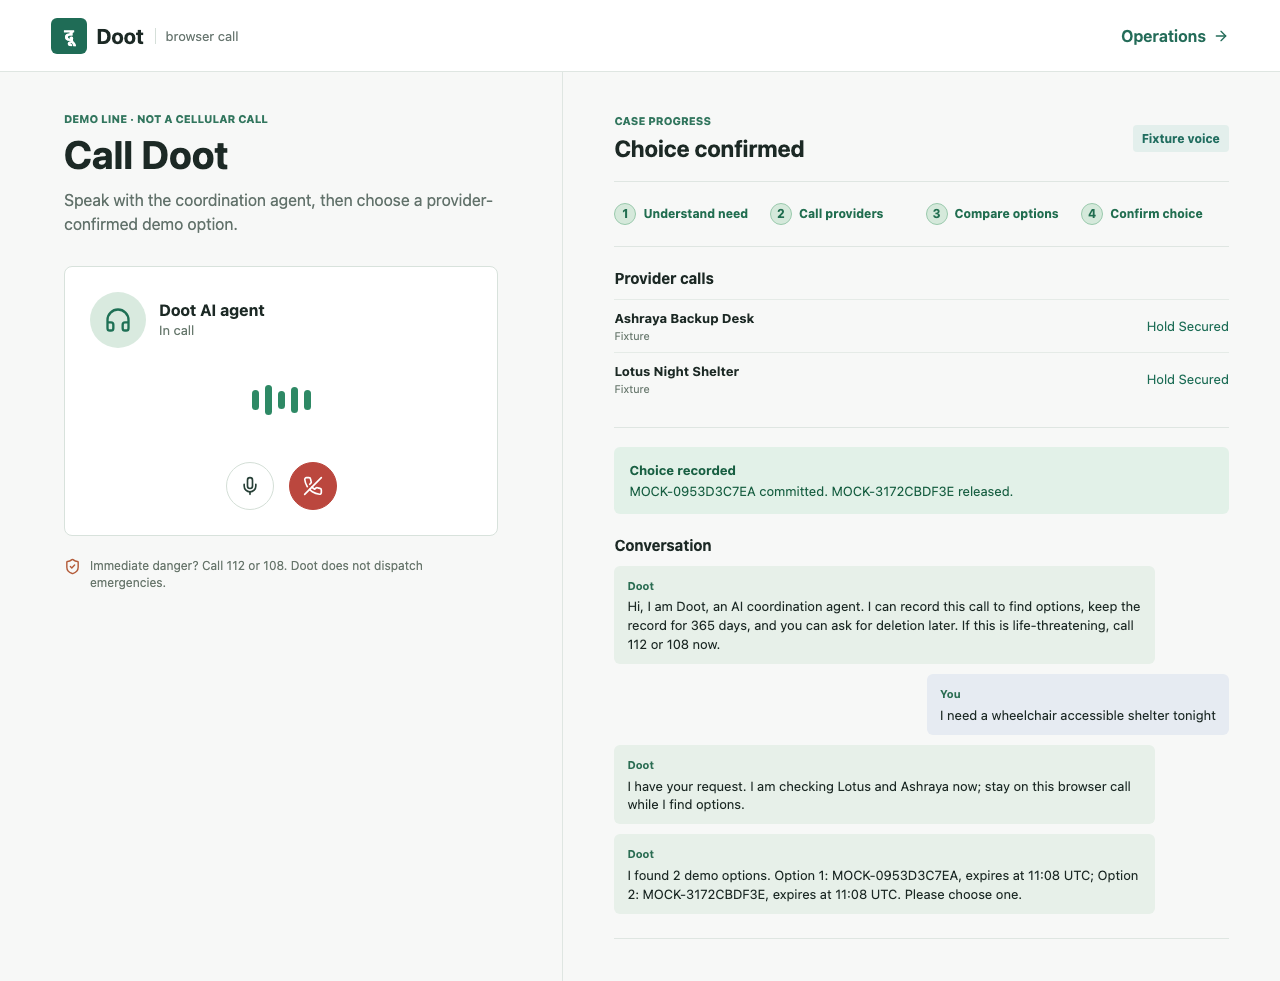
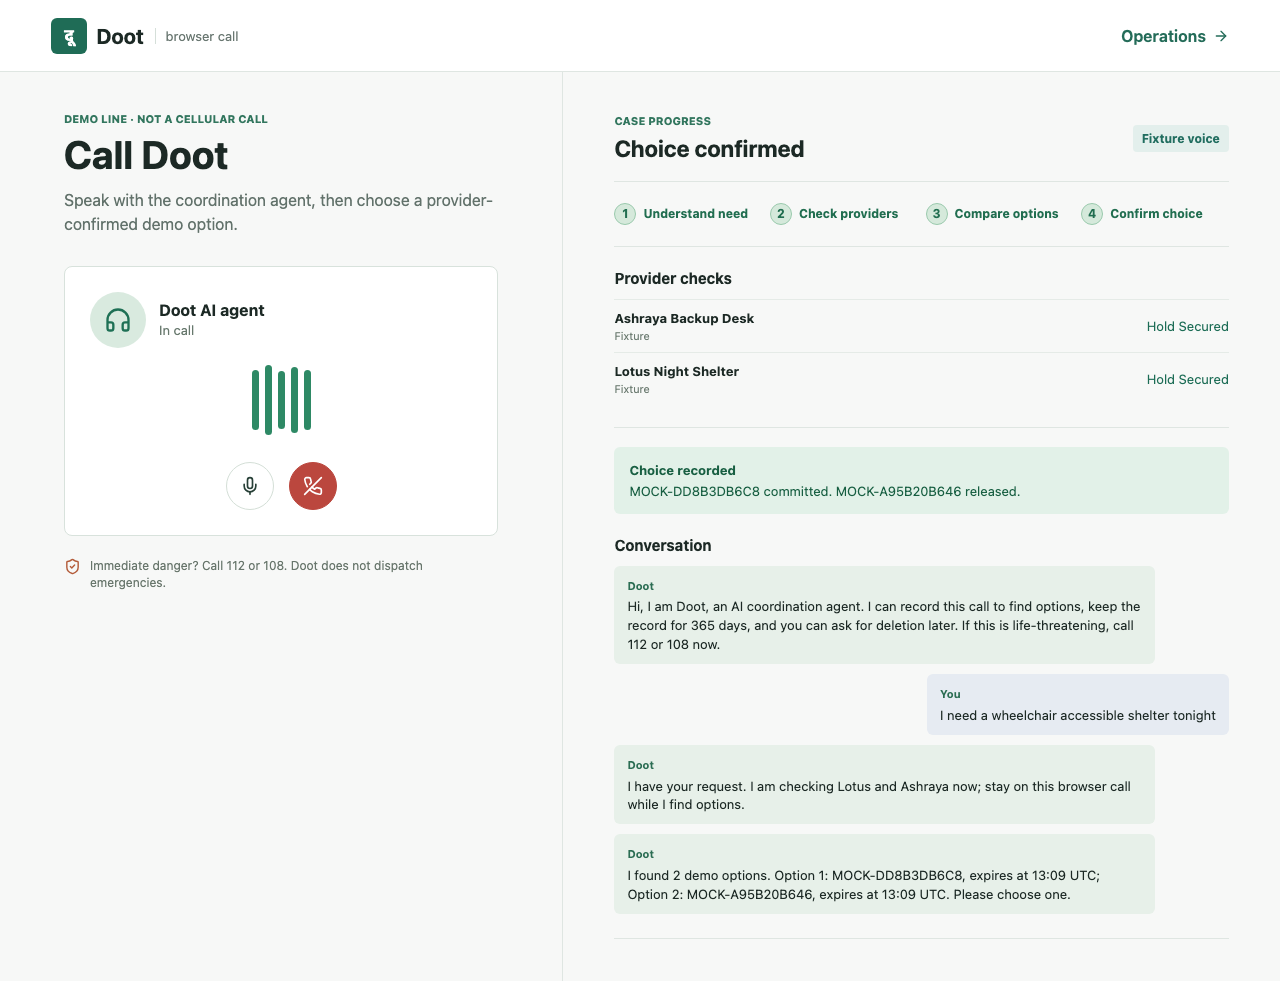
Clarify fixture labels and refresh caller evidence

diff --git a/apps/console/components/operations-dashboard.tsx b/apps/console/components/operations-dashboard.tsx
@@ -166,10 +166,10 @@ export function OperationsDashboard() {
       <section className="ops-content">
         <div className="ops-title"><div><p className="ops-kicker">CASE COORDINATION</p><h1>{current ? current.needSummary : "Waiting for a caller"}</h1></div><span className="ops-state">{current?.state.replaceAll("_", " ") ?? "idle"}</span></div>
         {current && <div className="ops-facts"><span><PhoneCall size={15} /> {current.callerChannel === "browser" ? "Browser softphone" : "Phone"}</span><span><Clock3 size={15} /> Deadline {new Date(current.callbackDeadlineAt).toLocaleTimeString()}</span><span><ShieldCheck size={15} /> Consent and safety screened</span></div>}
-        <div className="ops-tabs" role="tablist" aria-label="Case views"><button role="tab" aria-selected={view === "calls"} onClick={() => setView("calls")}>Provider calls</button><button role="tab" aria-selected={view === "proof"} onClick={() => setView("proof")}>Proof and audit</button></div>
+        <div className="ops-tabs" role="tablist" aria-label="Case views"><button role="tab" aria-selected={view === "calls"} onClick={() => setView("calls")}>Provider checks</button><button role="tab" aria-selected={view === "proof"} onClick={() => setView("proof")}>Proof and audit</button></div>
         {notice && <p className="ops-notice" role="status">{notice}</p>}
         {view === "calls" ? <>
-          <section className="ops-section" aria-label="Provider call status"><div className="ops-section-head"><h2>Outbound calls</h2><span>{calls.length} commands</span></div>
+          <section className="ops-section" aria-label="Provider activity status"><div className="ops-section-head"><h2>Provider activity</h2><span>{calls.length} commands</span></div>
             <div className="ops-call-head"><span>Provider</span><span>Source and reference</span><span>Status</span><span>Outcome</span></div>
             {calls.map((call) => <div className="ops-call" key={call.id}>
               <strong>{call.providerName}{call.kind === "release_hold_goal" ? " · release" : ""}</strong>
@@ -179,7 +179,7 @@ export function OperationsDashboard() {
               {call.evidenceSummary && <p>{call.evidenceSummary}</p>}
               {call.transcriptArtifactId && <button className="ops-transcript-button" onClick={() => void openTranscript(call)}>Provider-side transcript</button>}
             </div>)}
-            {!calls.length && <p className="ops-empty">No outbound calls for this case yet.</p>}
+            {!calls.length && <p className="ops-empty">No provider activity for this case yet.</p>}
           </section>
           {current && <section className="ops-section" aria-label="Decision options"><div className="ops-section-head"><h2>One decision</h2><span>{activeHolds.length} active holds</span></div>
             {current.holds.map((hold) => <label className="ops-hold" key={hold.id}>

diff --git a/apps/console/components/caller-experience.tsx b/apps/console/components/caller-experience.tsx
@@ -274,10 +274,10 @@ export function CallerExperience() {
       </section>
       <section className="caller-work" aria-label="Call progress">
         <div className="work-head"><div><p className="caller-kicker">CASE PROGRESS</p><h2>{progress?.case?.state === "resolved" ? "Choice confirmed" : progress?.case?.state === "no_options" ? "No option confirmed" : progress?.case?.state === "manual_review" ? "Needs human review" : progress?.case ? "Finding your options" : "Ready when you are"}</h2></div><span className="source-tag">{voiceMode === "live" ? "Live voice" : "Fixture voice"}</span></div>
-        <div className="flow-steps">{["Understand need", "Call providers", "Compare options", "Confirm choice"].map((label, index) =>
+        <div className="flow-steps">{["Understand need", "Check providers", "Compare options", "Confirm choice"].map((label, index) =>
           <div key={label} className={progress?.case && (index === 0 || progress.case.state === "resolved" || (index === 1 && progress.calls.length > 0) || (index === 2 && activeHolds.length > 0)) ? "step done" : "step"}><span>{index + 1}</span>{label}</div>
         )}</div>
-        {progress?.calls.length ? <div className="caller-providers"><h3>Provider calls</h3>{progress.calls.filter((call) => call.kind === "provider_hold_goal").map((call) =>
+        {progress?.calls.length ? <div className="caller-providers"><h3>Provider checks</h3>{progress.calls.filter((call) => call.kind === "provider_hold_goal").map((call) =>
           <div className="provider-line" key={call.id}><div><strong>{call.providerName}</strong><small>{call.source === "call_e" ? "Live CALL-E" : "Fixture"}{call.goalRunId ? ` · ${call.goalRunId}` : ""}</small>{call.error ? <small>{call.error}</small> : null}</div><span>{call.outcome?.replaceAll("_", " ") ?? call.status.replaceAll("_", " ")}</span></div>
         )}</div> : null}
         {progress?.case?.state === "awaiting_decision" && activeHolds.length ? <div className="caller-options"><h3>Choose one option</h3>{activeHolds.map((hold) =>

diff --git a/tests/acceptance/caller-first.spec.ts b/tests/acceptance/caller-first.spec.ts
@@ -67,7 +67,7 @@ test("operator uses explicit override and can inspect proof on desktop and mobil
   await request.post(`${localApi}/v1/demo/reset`);
   await page.goto("/ops");
   await expect(page.getByRole("complementary", { name: "Case queue" })).toBeVisible();
-  await expect(page.getByRole("heading", { name: "Outbound calls" })).toBeVisible();
+  await expect(page.getByRole("heading", { name: "Provider activity" })).toBeVisible();
   const hold = page.locator(".ops-hold").first();
   await hold.locator("input").focus();
   await page.keyboard.press("Space");
